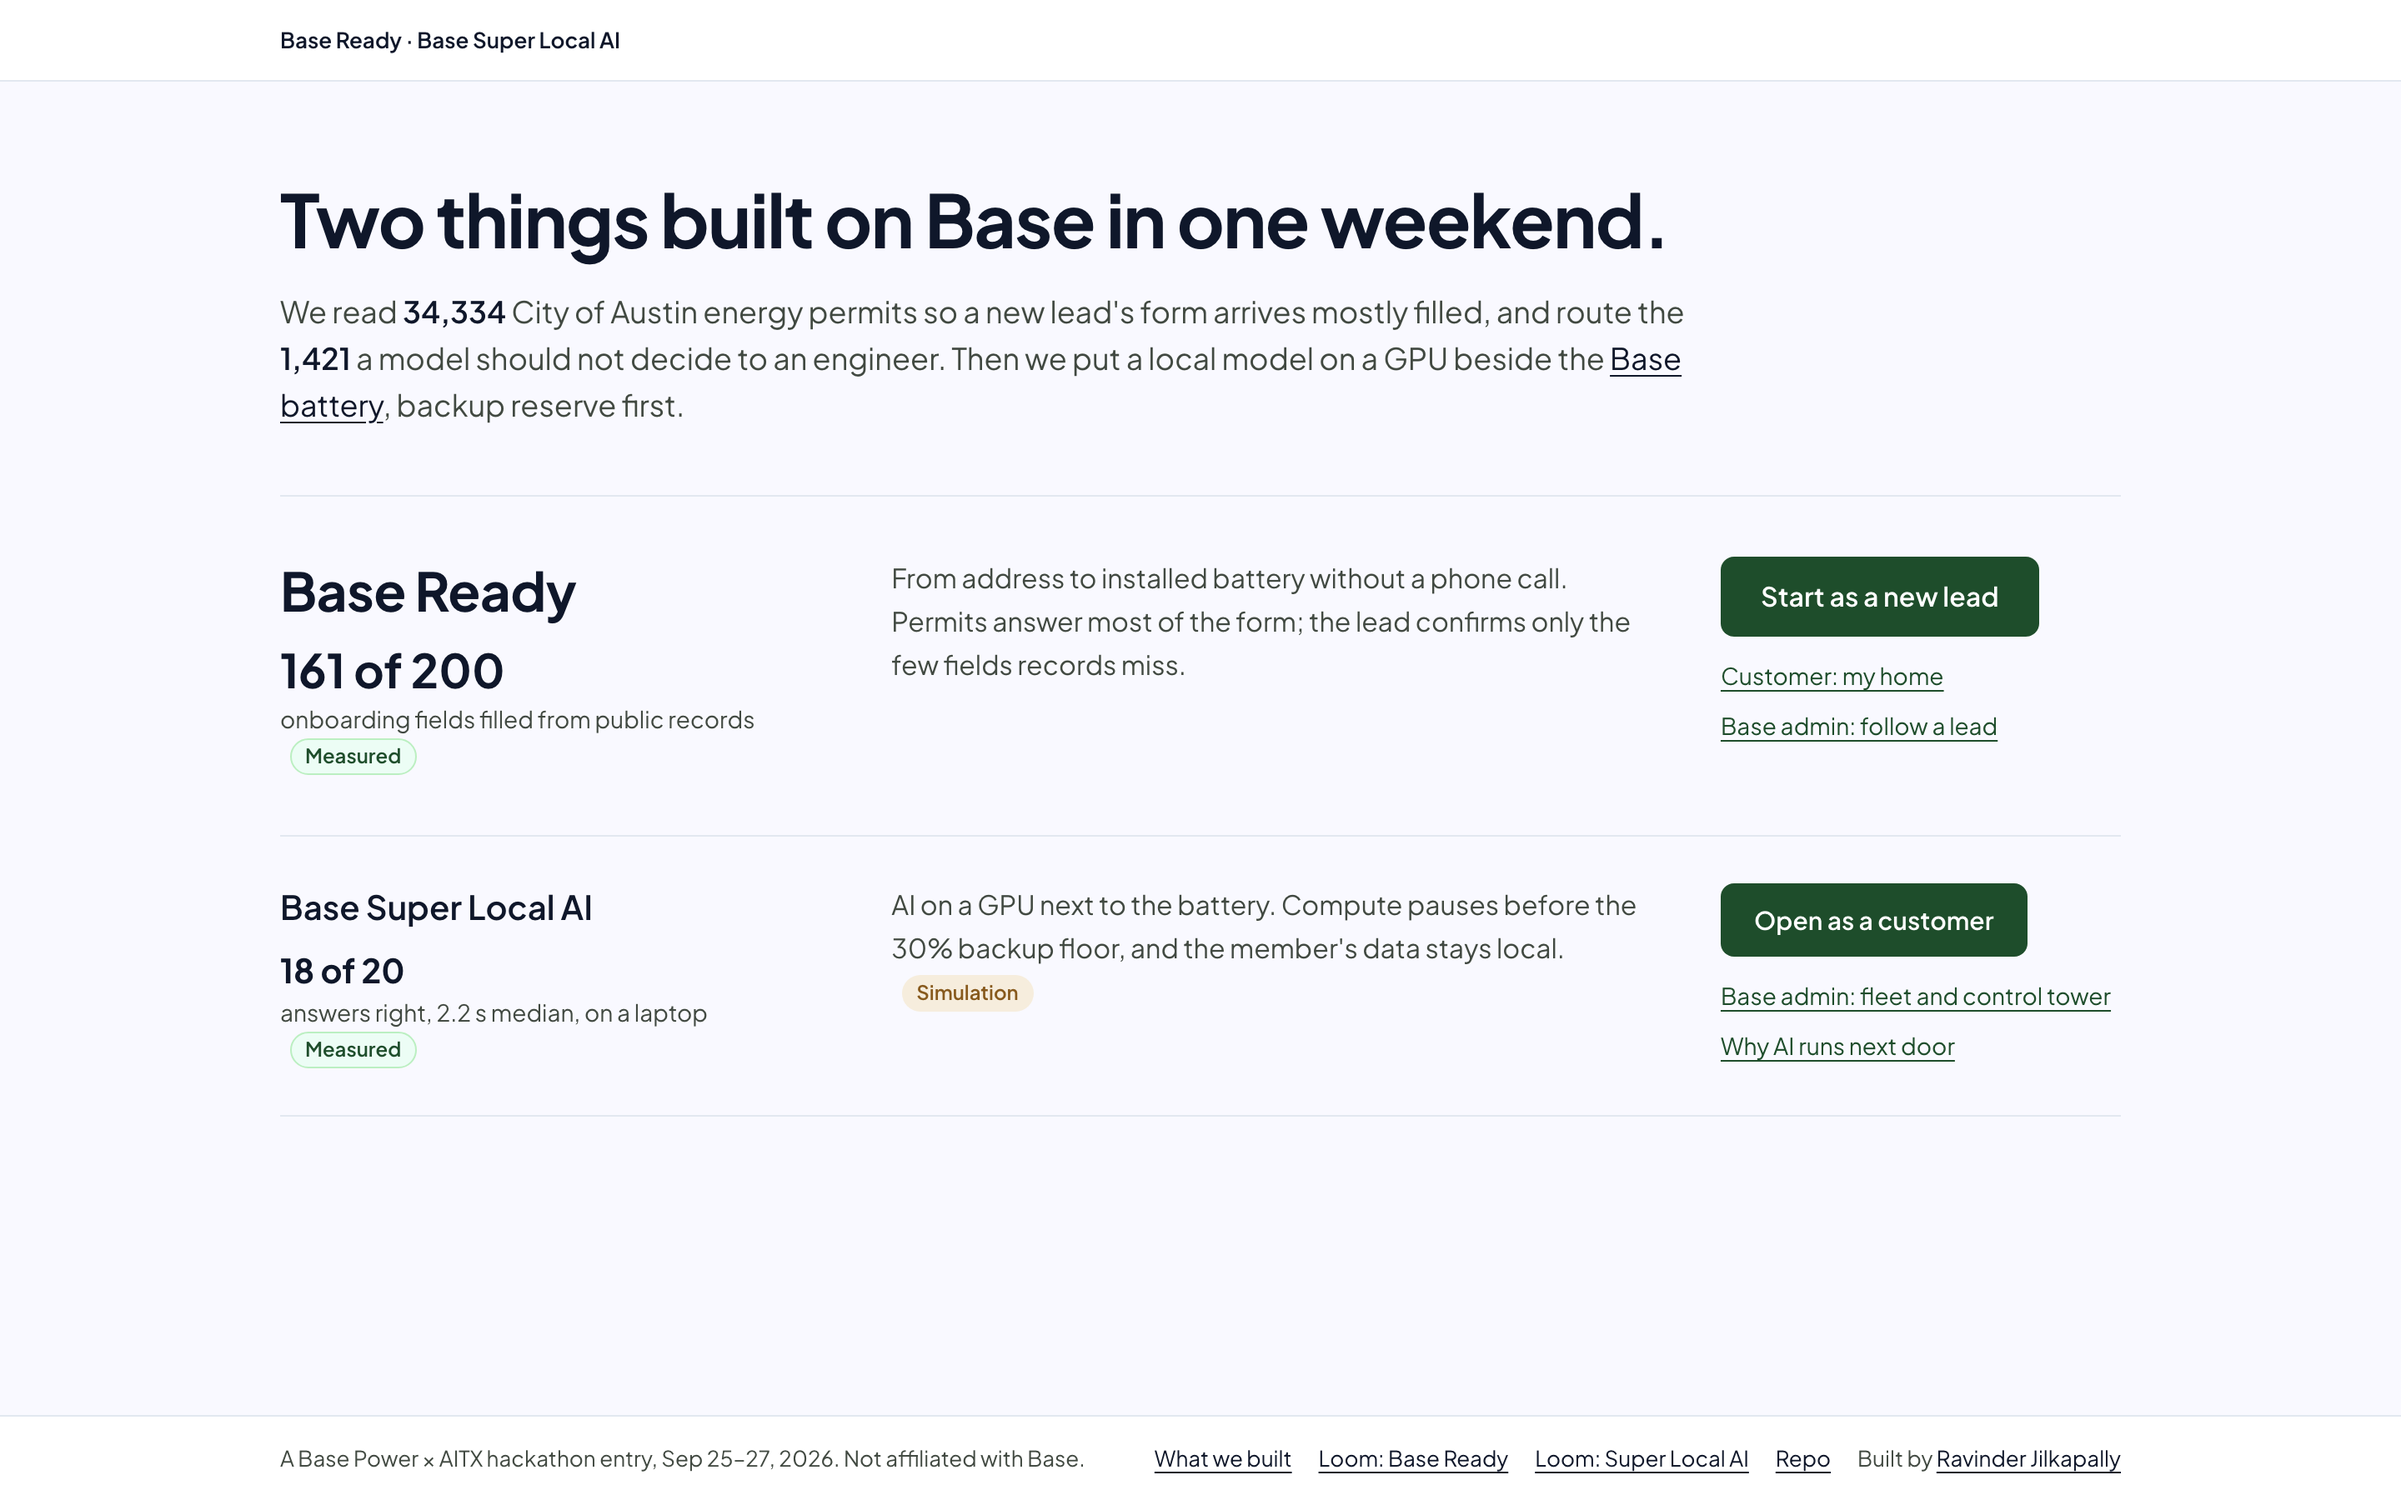
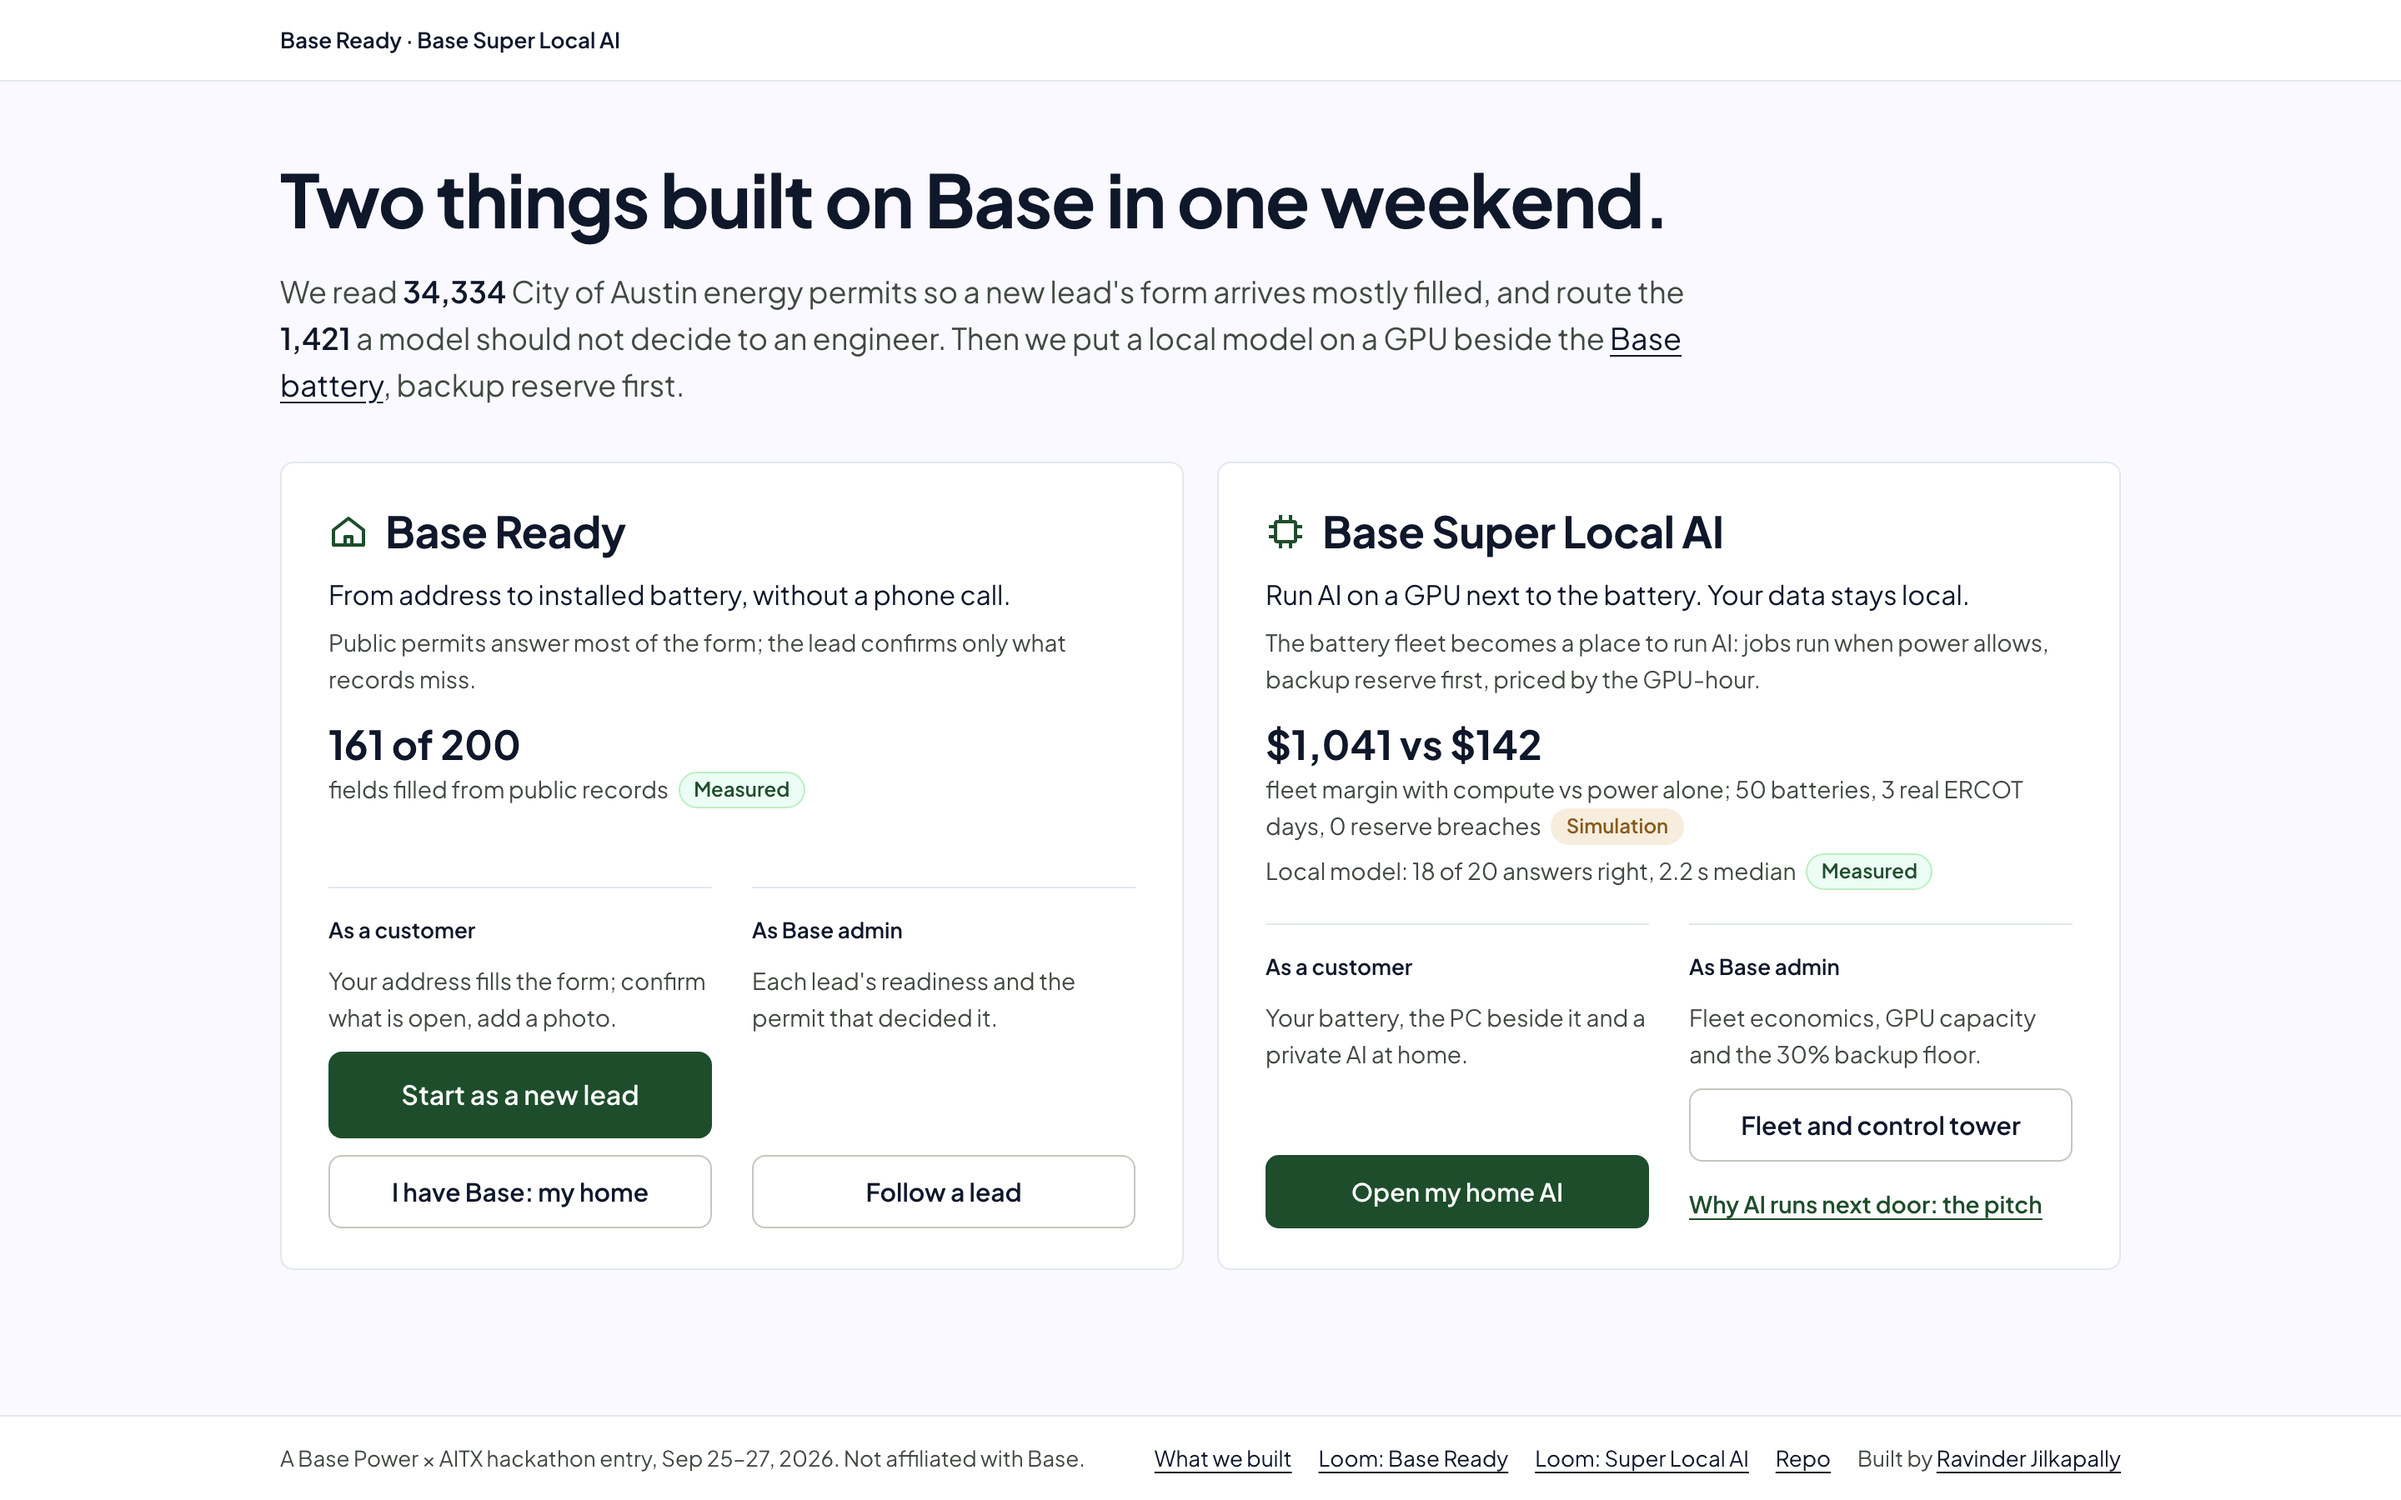
landing: two equal product panels with the customer / Base admin choice restored
- each product is one panel; "As a customer" and "As Base admin" side by side with real buttons
- Super Local AI leads with its thesis; proof $1,041 vs $142 fleet margin (Simulation), 18 of 20 secondary (Measured)
- story header and footer kept; ids, hrefs and link count unchanged; tests pass

Claude-Session: https://claude.ai/code/session_01MhZ4defSvUL2RRn7pbkeyv

diff --git a/web/start.html b/web/start.html
@@ -17,49 +17,51 @@
   .wrap { width: 100%; max-width: 1200px; margin: 0 auto; padding: 0 48px; }
   .top { border-bottom: 1px solid var(--bf-line); background: var(--bf-surface); }
   .top .wrap { height: 48px; display: flex; align-items: center; font: var(--bf-text-label); }
-  main { flex: 1; padding: 56px 0 40px; }
+  main { flex: 1; padding: 44px 0 32px; }
   h1 { font: 700 44px/52px var(--bf-font); letter-spacing: -0.02em; margin: 0; max-width: 32ch; }
   .lede { font: var(--bf-text-body-lg); font-size: 18px; line-height: 28px; color: var(--bf-muted); margin: 16px 0 0; max-width: 64ch; }
   .lede a { color: var(--bf-ink); text-underline-offset: 3px; }
-  .lede b, .entry b { color: var(--bf-ink); font-weight: 600; }
-  .entries { margin-top: 40px; border-top: 1px solid var(--bf-line); }
-  .entry { display: grid; grid-template-columns: minmax(0, 1fr) minmax(0, 1.4fr) auto; gap: 16px 40px; align-items: start; padding: 28px 0; border-bottom: 1px solid var(--bf-line); }
-  .entry h2 { margin: 0; font: var(--bf-text-h1); }
-  .entry p { margin: 0; }
-  .entry .what { font: var(--bf-text-body-lg); color: var(--bf-muted); }
-  .proof { margin-top: 10px !important; font: var(--bf-text-body); color: var(--bf-muted); }
-  .proof .n { display: block; font: 700 20px/28px var(--bf-font); color: var(--bf-ink); }
+  .lede b { color: var(--bf-ink); font-weight: 600; }
+  .products { margin-top: 32px; display: grid; grid-template-columns: minmax(0, 1fr) minmax(0, 1fr); gap: 20px; }
+  .product { display: grid; grid-template-columns: minmax(0, 1fr) minmax(0, 1fr); grid-template-rows: 1fr auto; gap: 0 24px; background: var(--bf-surface); border: 1px solid var(--bf-line); border-radius: var(--bf-radius-lg); padding: 24px 28px; }
+  .product .info { grid-column: 1 / -1; padding-bottom: 20px; }
+  .product h2 { margin: 0; font: 700 26px/34px var(--bf-font); letter-spacing: -0.01em; display: flex; align-items: center; gap: 10px; }
+  .product h2 svg { width: 24px; height: 24px; flex: none; color: var(--bf-brand); }
+  .product p { margin: 0; }
+  .what { margin-top: 8px !important; font: var(--bf-text-body-lg); color: var(--bf-ink); }
+  .sub { margin-top: 4px !important; font: var(--bf-text-body); color: var(--bf-muted); }
+  .proof { margin-top: 12px !important; font: var(--bf-text-body); color: var(--bf-muted); }
+  .proof .n { display: block; font: 700 24px/32px var(--bf-font); color: var(--bf-ink); }
   .tag { display: inline-block; margin-left: 6px; padding: 0 8px; border-radius: var(--bf-radius-pill); border: 1px solid var(--bf-line); font: 600 12px/20px var(--bf-font); white-space: nowrap; vertical-align: 1px; }
   .tag.m { background: var(--bf-brand-tint); border-color: var(--bf-brand-soft); color: var(--bf-brand); }
   .tag.s { background: var(--bf-amber-tint); border-color: transparent; color: var(--bf-amber); }
-  .act { display: flex; flex-direction: column; align-items: flex-start; gap: 10px; min-width: 240px; }
-  .btn { display: inline-flex; align-items: center; min-height: 44px; padding: 0 20px; border-radius: var(--bf-radius-lg); background: var(--bf-brand); color: var(--bf-on-brand); font: 600 15px/22px var(--bf-font); text-decoration: none; }
-  .btn:hover { background: var(--bf-brand-strong); }
-  .entry.lead .btn { min-height: 48px; padding: 0 24px; font-size: 16px; }
-  .paths { display: flex; flex-direction: column; gap: 4px; font: var(--bf-text-body); }
-  .paths a { color: var(--bf-brand); text-underline-offset: 3px; display: inline-block; padding: 2px 0; }
-  .paths a:hover { color: var(--bf-brand-strong); }
-  .entry.lead { padding: 36px 0; }
-  .entry.lead h2 { font: 700 32px/40px var(--bf-font); letter-spacing: -0.01em; }
-  .entry.lead .proof .n { font-size: 28px; line-height: 36px; }
-  .entry.second h2 { font: var(--bf-text-h2); }
+  .role { display: flex; flex-direction: column; gap: 10px; padding-top: 16px; border-top: 1px solid var(--bf-line); }
+  .role h3 { margin: 0; font: var(--bf-text-label); color: var(--bf-ink); }
+  .role p { font: var(--bf-text-body); color: var(--bf-muted); flex: 1; min-height: 44px; }
+  .btn { display: flex; align-items: center; justify-content: center; text-align: center; min-height: 44px; padding: 8px 16px; border-radius: var(--bf-radius-lg); border: 1px solid var(--bf-line-strong); background: var(--bf-surface); color: var(--bf-ink); font: 600 15px/20px var(--bf-font); text-decoration: none; }
+  .btn:hover { background: var(--bf-sunk); }
+  .btn.primary { background: var(--bf-brand); border-color: var(--bf-brand); color: var(--bf-on-brand); }
+  .btn.primary:hover { background: var(--bf-brand-strong); border-color: var(--bf-brand-strong); }
+  #home-customer { min-height: 52px; font-size: 16px; }
+  .textlink { color: var(--bf-brand); font: 600 14px/22px var(--bf-font); padding: 4px 0; text-underline-offset: 3px; }
   footer { border-top: 1px solid var(--bf-line); background: var(--bf-surface); color: var(--bf-muted); font: var(--bf-text-small); font-size: 13px; }
   footer .wrap { padding-top: 16px; padding-bottom: 16px; display: flex; flex-wrap: wrap; gap: 6px 20px; justify-content: space-between; }
   footer nav { display: flex; flex-wrap: wrap; gap: 4px 16px; }
   footer a { color: var(--bf-ink); text-underline-offset: 3px; }
-  @media (max-width: 1080px) {
-    .entry { grid-template-columns: minmax(0, 1fr) auto; }
-    .entry .act { grid-column: 2; grid-row: 1 / span 2; }
+  @media (max-width: 1000px) {
+    .products { grid-template-columns: minmax(0, 1fr); }
   }
-  @media (max-width: 720px) {
+  @media (max-width: 640px) {
     .wrap { padding: 0 16px; }
     main { padding: 32px 0 24px; }
     h1 { font-size: 32px; line-height: 38px; }
     .lede { font-size: 16px; line-height: 26px; }
-    .entry, .entry.lead { grid-template-columns: minmax(0, 1fr); padding: 24px 0; gap: 12px; }
-    .entry .act { grid-column: 1; grid-row: auto; min-width: 0; align-items: stretch; }
-    .entry.lead h2 { font-size: 26px; line-height: 32px; }
-    .btn { justify-content: center; }
+    .products { gap: 24px; }
+    .product { grid-template-columns: minmax(0, 1fr); grid-template-rows: none; padding: 20px; }
+    .product .info { padding-bottom: 16px; }
+    .role + .role { margin-top: 16px; }
+    .role p { min-height: 0; }
+    .product h2 { font-size: 24px; line-height: 30px; }
   }
 </style>
 <script defer src="/web/start.js"></script>
@@ -71,34 +73,45 @@
 <h1>Two things built on Base in one weekend.</h1>
 <p class="lede">We read <b>34,334</b> City of Austin energy permits so a new lead's form arrives mostly filled, and route the <b>1,421</b> a model should not decide to an engineer. Then we put a local model on a GPU beside the <a id="base-source" href="https://basepowercompany.com/how-it-works" target="_blank" rel="noopener">Base battery</a>, backup reserve first.</p>
 
-<div class="entries">
-<section class="entry lead" id="home-card" aria-labelledby="home-title">
-<div>
-<h2 id="home-title">Base Ready</h2>
-<p class="proof"><span class="n">161 of 200</span>onboarding fields filled from public records<span class="tag m">Measured</span></p>
+<div class="products">
+<section class="product" id="home-card" aria-labelledby="home-title">
+<div class="info">
+<h2 id="home-title"><svg viewBox="0 0 24 24" fill="none" stroke="currentColor" stroke-width="2" stroke-linejoin="round" aria-hidden="true"><path d="M3 11 12 4l9 7v9H3z"/><path d="M10 20v-5h4v5"/></svg>Base Ready</h2>
+<p class="what" id="home-description">From address to installed battery, without a phone call.</p>
+<p class="sub">Public permits answer most of the form; the lead confirms only what records miss.</p>
+<p class="proof"><span class="n">161 of 200</span>fields filled from public records<span class="tag m">Measured</span></p>
 </div>
-<p class="what" id="home-description">From address to installed battery without a phone call. Permits answer most of the form; the lead confirms only the few fields records miss.</p>
-<div class="act">
-<a class="btn" id="home-customer" href="/web/onboarding.html?track=home&amp;persona=lead#home">Start as a new lead</a>
-<div class="paths">
-<a id="home-member" href="/web/member.html?track=home&amp;persona=lead">Customer: my home</a>
-<a id="home-admin" href="/web/house.html?track=home&amp;persona=operations">Base admin: follow a lead</a>
+<div class="role">
+<h3>As a customer</h3>
+<p>Your address fills the form; confirm what is open, add a photo.</p>
+<a class="btn primary" id="home-customer" href="/web/onboarding.html?track=home&amp;persona=lead#home">Start as a new lead</a>
+<a class="btn" id="home-member" href="/web/member.html?track=home&amp;persona=lead">I have Base: my home</a>
 </div>
+<div class="role">
+<h3>As Base admin</h3>
+<p>Each lead's readiness and the permit that decided it.</p>
+<a class="btn" id="home-admin" href="/web/house.html?track=home&amp;persona=operations">Follow a lead</a>
 </div>
 </section>
 
-<section class="entry second" id="compute-card" aria-labelledby="compute-title">
-<div>
-<h2 id="compute-title">Base Super Local AI</h2>
-<p class="proof"><span class="n">18 of 20</span>answers right, 2.2 s median, on a laptop<span class="tag m">Measured</span></p>
+<section class="product" id="compute-card" aria-labelledby="compute-title">
+<div class="info">
+<h2 id="compute-title"><svg viewBox="0 0 24 24" fill="none" stroke="currentColor" stroke-width="2" stroke-linejoin="round" aria-hidden="true"><rect x="6" y="6" width="12" height="12" rx="1"/><path d="M9 2v4M15 2v4M9 18v4M15 18v4M2 9h4M2 15h4M18 9h4M18 15h4"/></svg>Base Super Local AI</h2>
+<p class="what" id="compute-description">Run AI on a GPU next to the battery. Your data stays local.</p>
+<p class="sub">The battery fleet becomes a place to run AI: jobs run when power allows, backup reserve first, priced by the GPU-hour.</p>
+<p class="proof"><span class="n">$1,041 vs $142</span>fleet margin with compute vs power alone; 50 batteries, 3 real ERCOT days, 0 reserve breaches<span class="tag s">Simulation</span></p>
+<p class="sub">Local model: 18 of 20 answers right, 2.2 s median<span class="tag m">Measured</span></p>
 </div>
-<p class="what" id="compute-description">AI on a GPU next to the battery. Compute pauses before the 30% backup floor, and the member's data stays local.<span class="tag s">Simulation</span></p>
-<div class="act">
-<a class="btn" id="compute-customer" href="/web/compute-home.html?track=compute&amp;persona=gpu">Open as a customer</a>
-<div class="paths">
-<a id="compute-admin" href="/web/overview.html?track=compute&amp;persona=fleet">Base admin: fleet and control tower</a>
-<a id="compute-pitch" href="/web/pitch.html?track=compute&amp;persona=fleet">Why AI runs next door</a>
+<div class="role">
+<h3>As a customer</h3>
+<p>Your battery, the PC beside it and a private AI at home.</p>
+<a class="btn primary" id="compute-customer" href="/web/compute-home.html?track=compute&amp;persona=gpu">Open my home AI</a>
 </div>
+<div class="role">
+<h3>As Base admin</h3>
+<p>Fleet economics, GPU capacity and the 30% backup floor.</p>
+<a class="btn" id="compute-admin" href="/web/overview.html?track=compute&amp;persona=fleet">Fleet and control tower</a>
+<a class="textlink" id="compute-pitch" href="/web/pitch.html?track=compute&amp;persona=fleet">Why AI runs next door: the pitch</a>
 </div>
 </section>
 </div>
